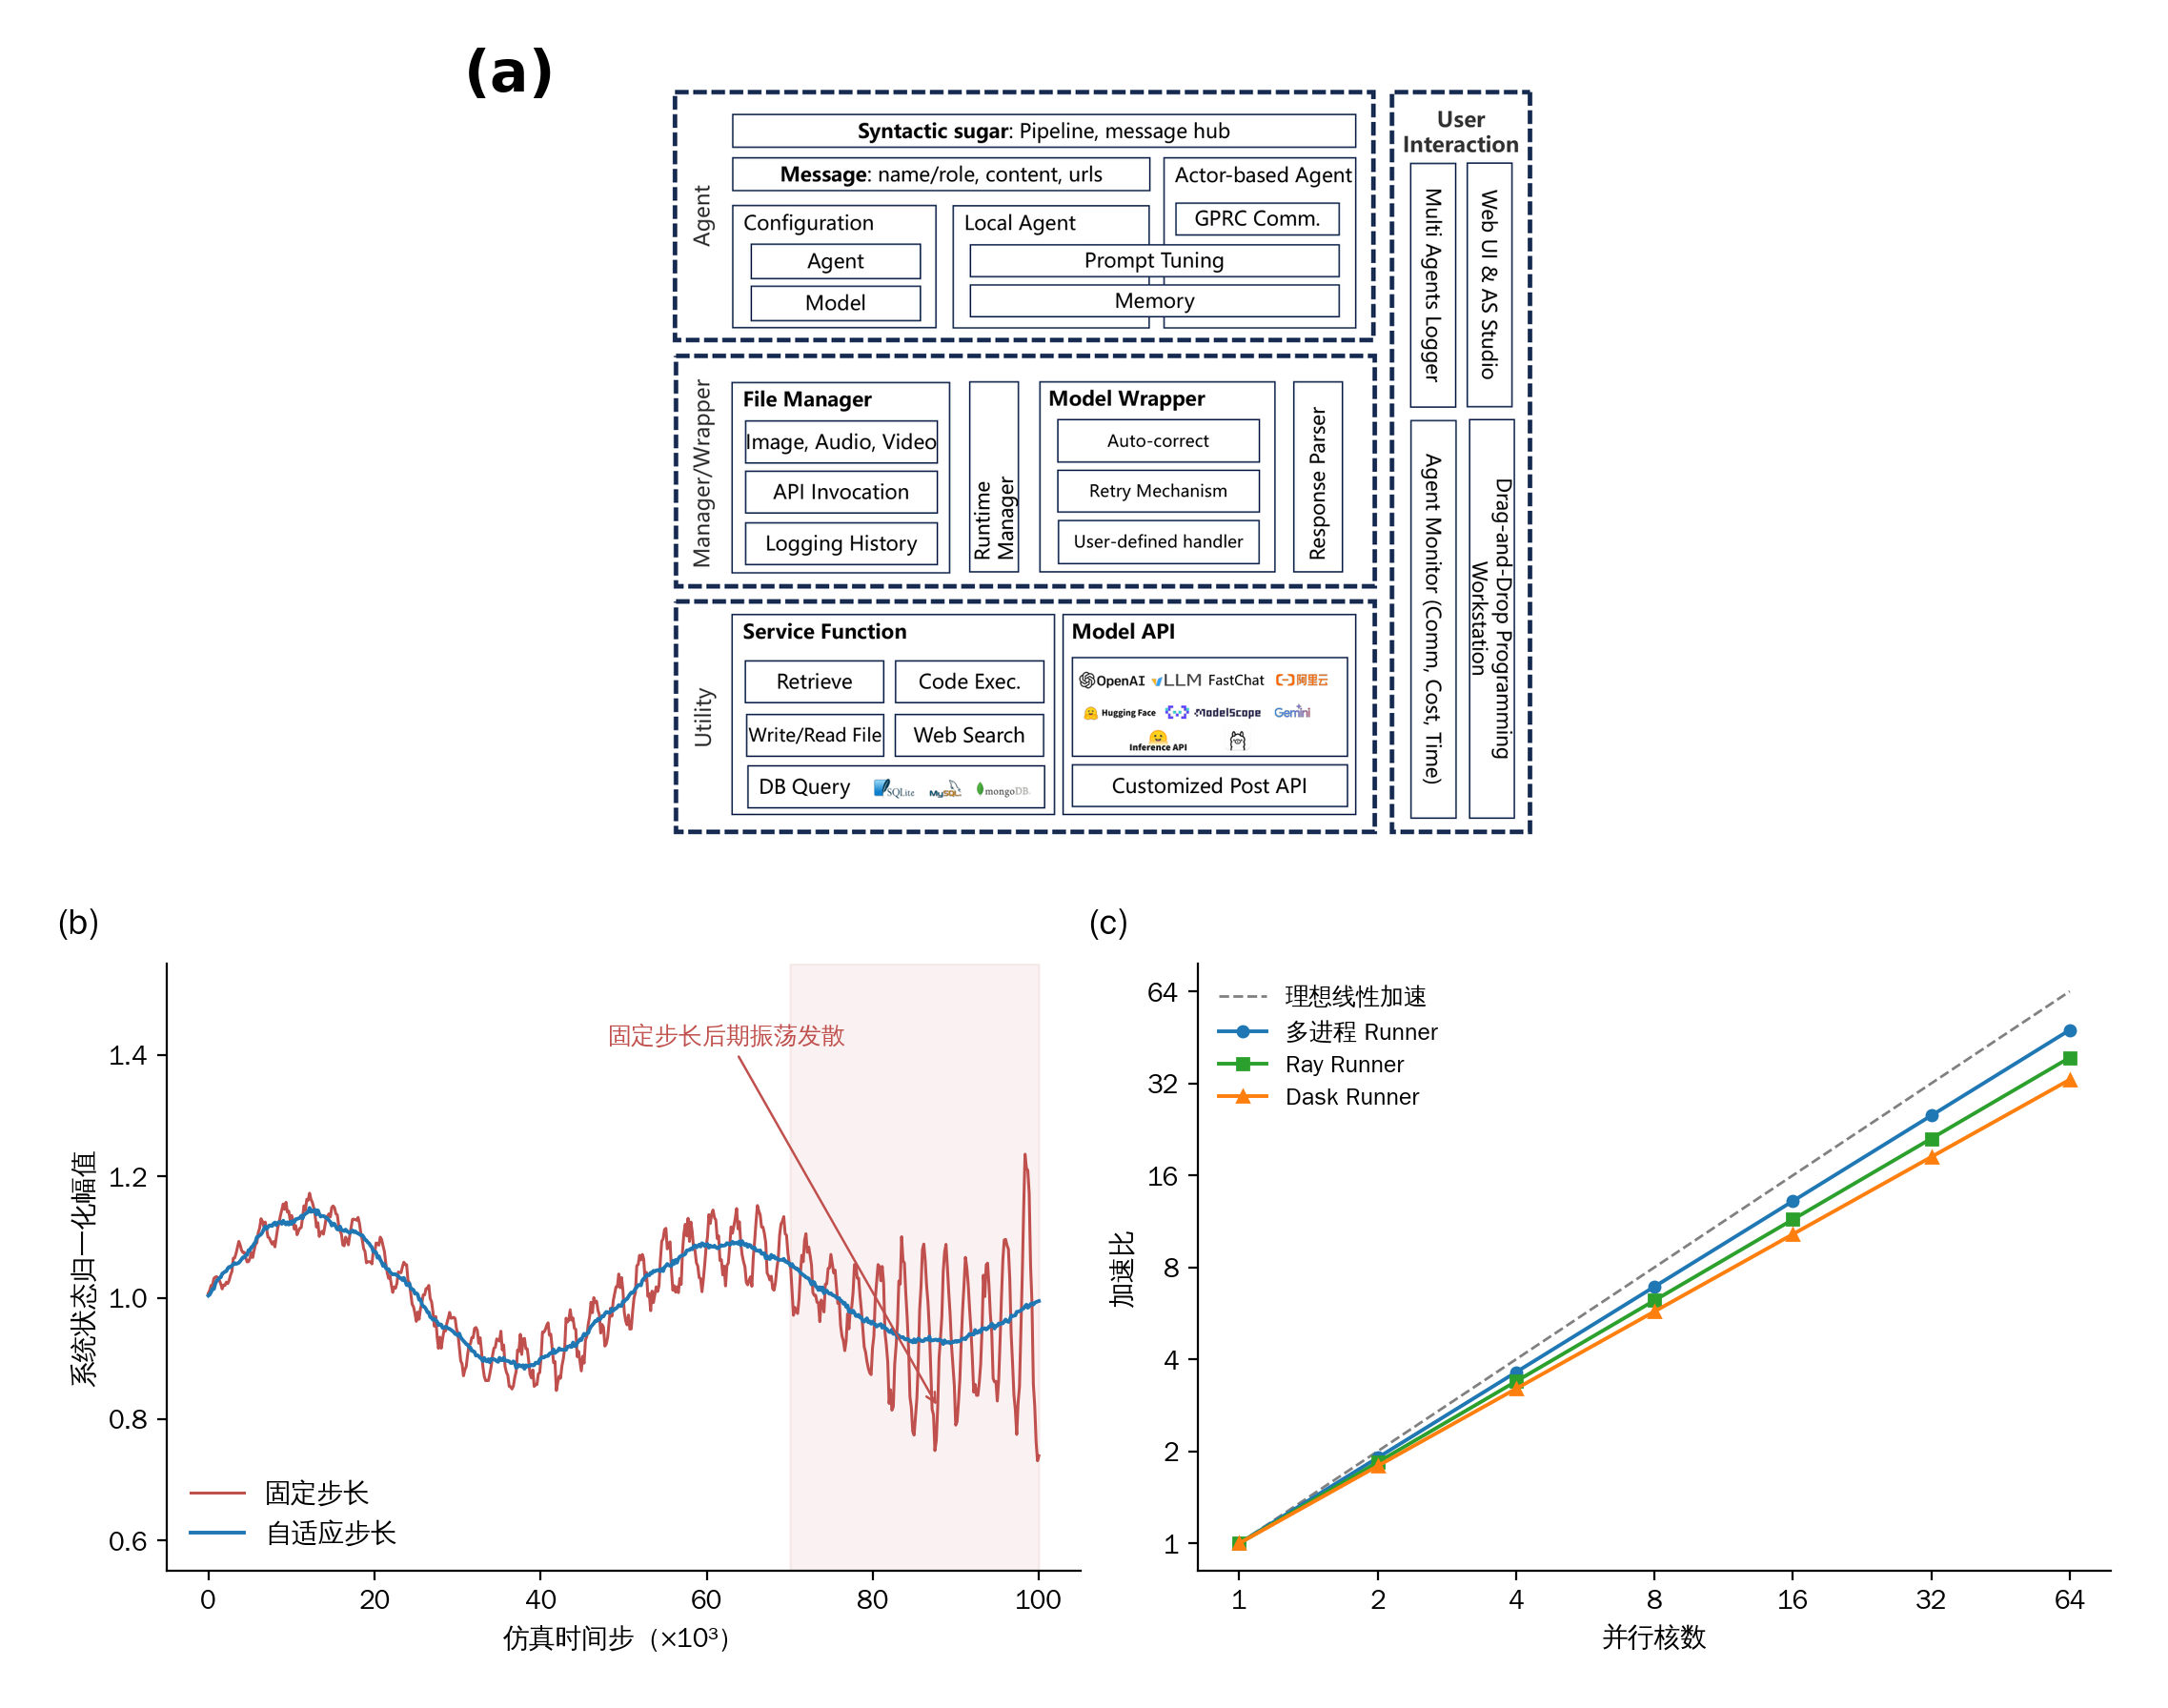
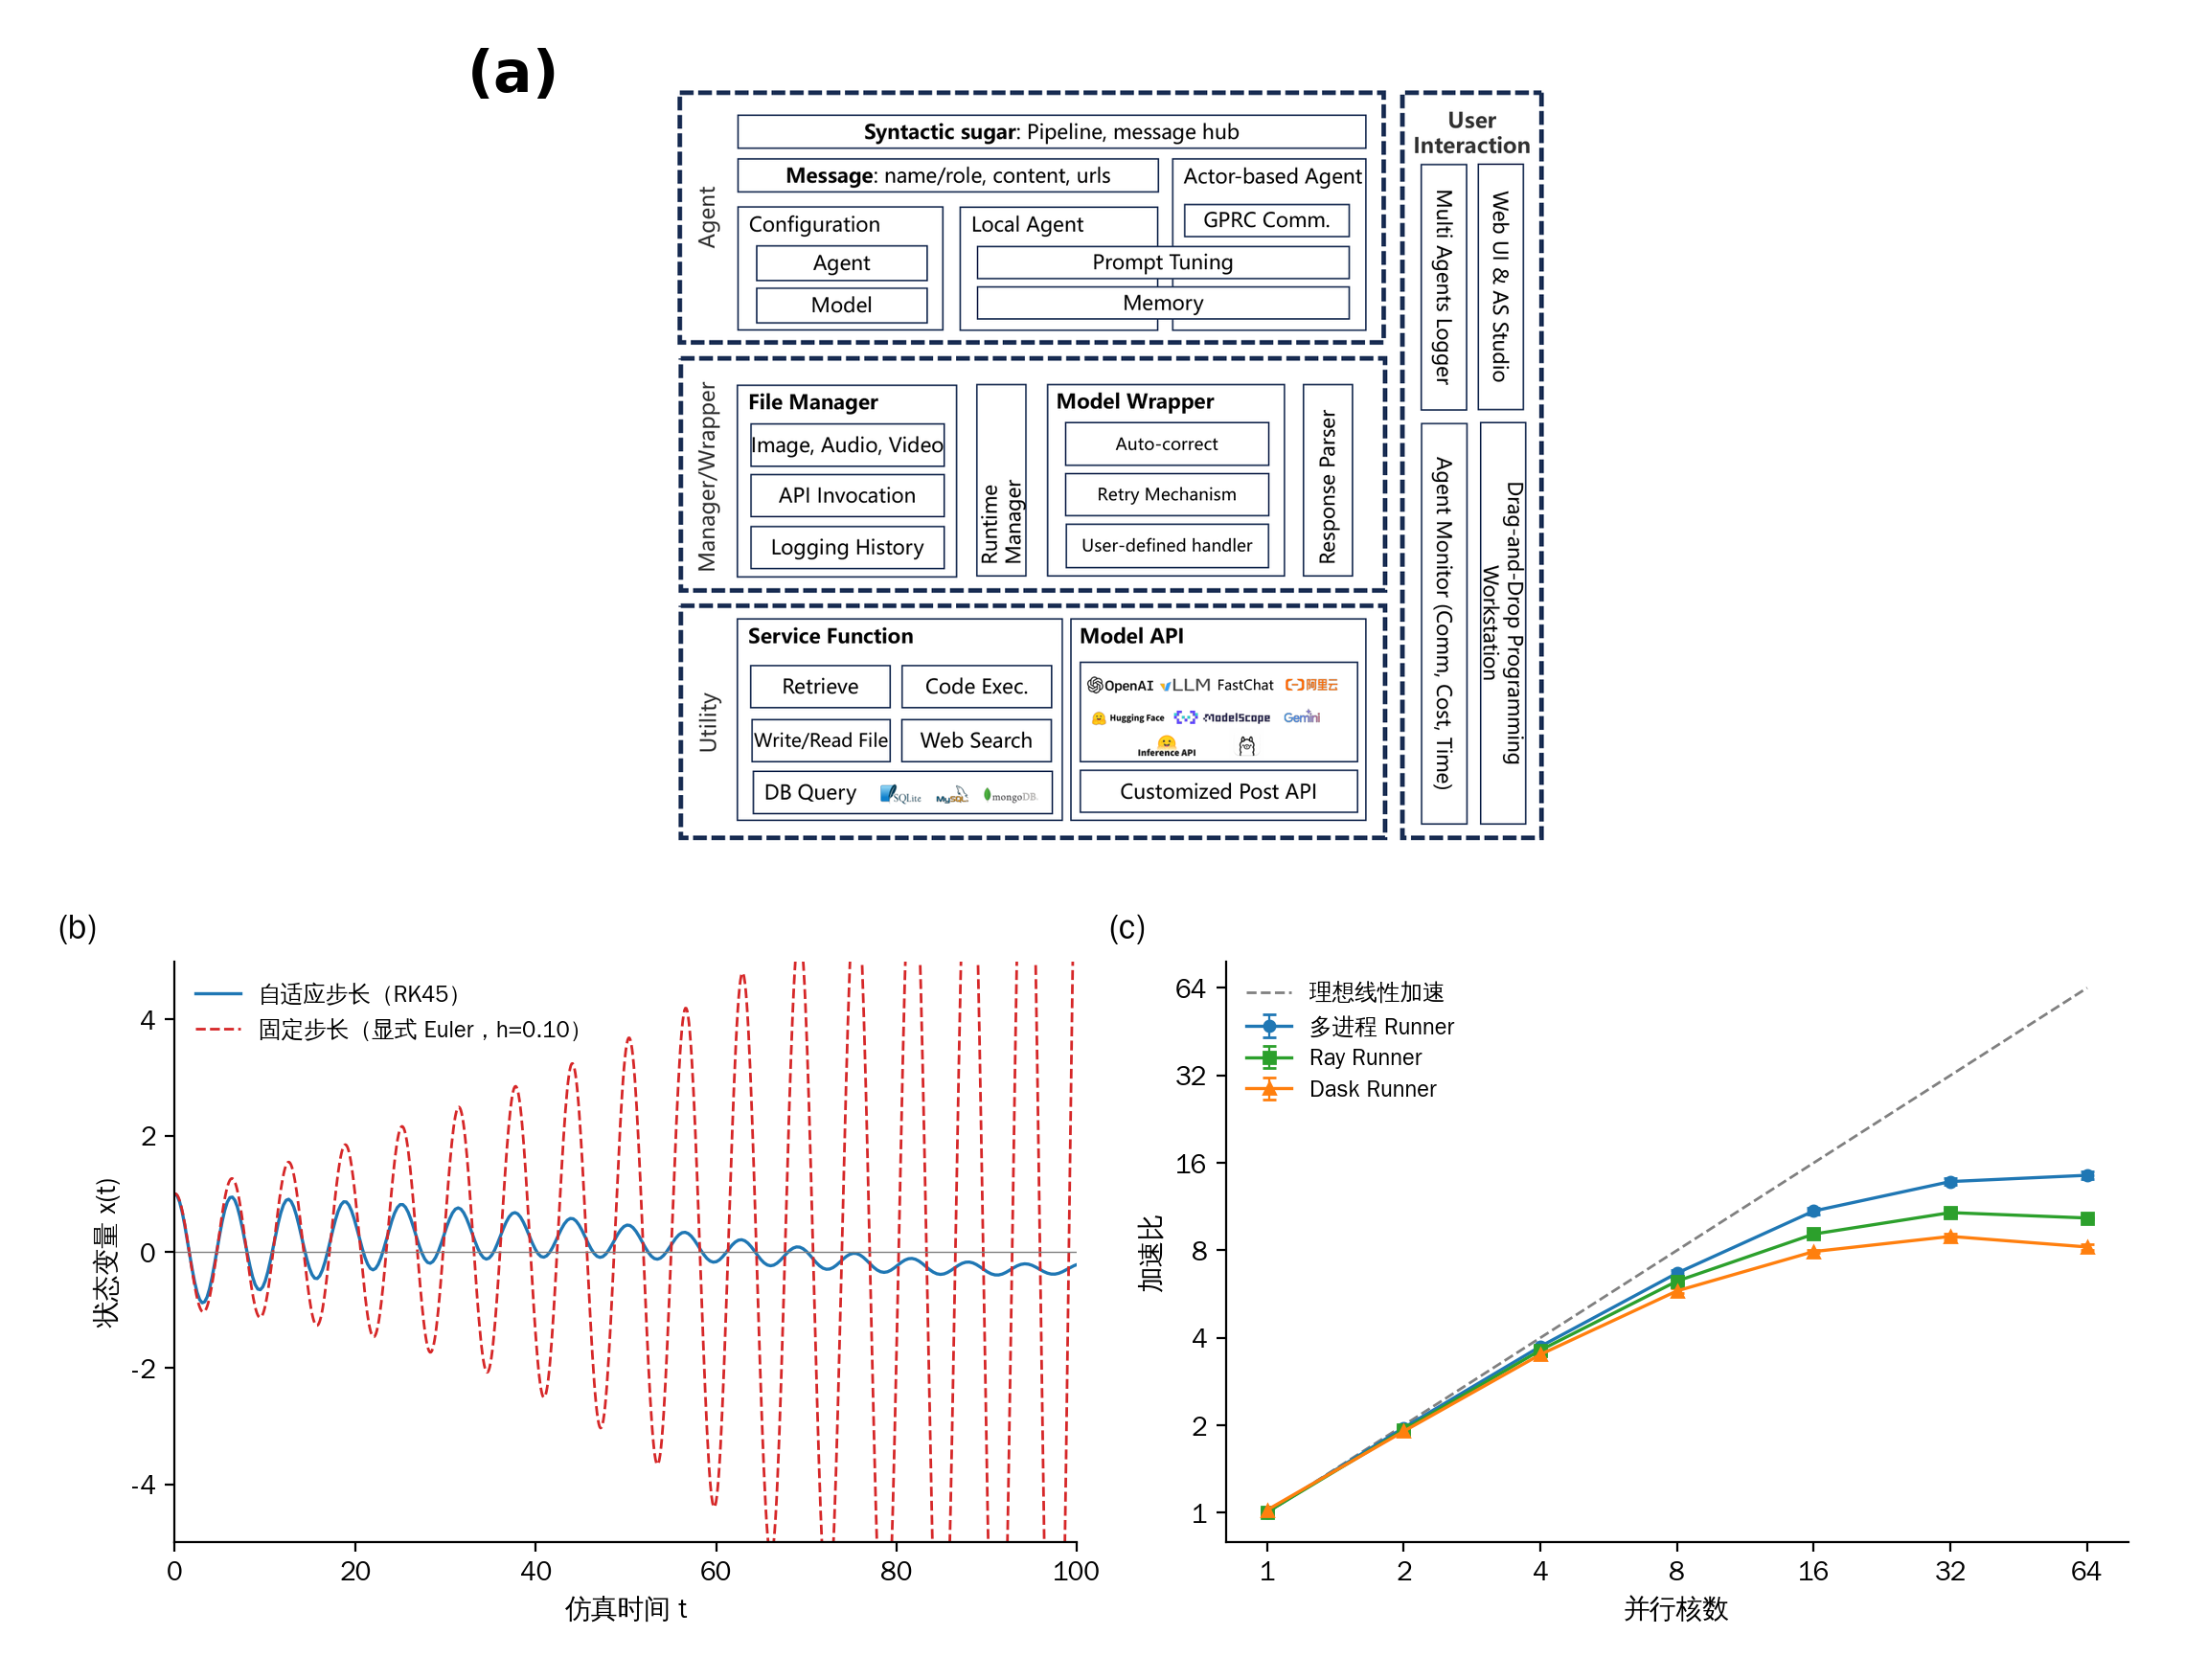
图2-3(b)(c) 重画：真实数值积分发散实验 + Amdahl饱和加速比带误差棒

diff --git a/生图文件夹/图2-3/绘图脚本.py b/生图文件夹/图2-3/绘图脚本.py
@@ -1,0 +1,55 @@
+import numpy as np, matplotlib
+matplotlib.rcParams['font.sans-serif']=['WenQuanYi Zen Hei']
+matplotlib.rcParams['axes.unicode_minus']=False
+import matplotlib.pyplot as plt
+from scipy.integrate import solve_ivp
+np.random.seed(7)
+
+# real dynamics: damped driven oscillator dx/dt = v, dv/dt = -w^2 x - c v + F sin(0.05 t)
+w2, c = 1.0, 0.05
+def f(t,y): return [y[1], -w2*y[0]-c*y[1]+0.3*np.sin(0.05*t)]
+
+T=100.0
+# adaptive RK45 (真实自适应解)
+sol=solve_ivp(f,[0,T],[1.0,0.0],max_step=1.0,rtol=1e-6)
+# fixed-step forward Euler with过大步长 -> 真实数值不稳定
+h=0.10
+h=0.10
+n=int(T/h); tf=np.arange(n+1)*h
+yf=np.zeros((n+1,2)); yf[0]=[1.0,0.0]
+for i in range(n):
+    yi=yf[i]; yf[i+1]=yi+h*np.array(f(tf[i],yi))
+fig,axes=plt.subplots(1,2,figsize=(11,4.0),dpi=200)
+ax=axes[0]
+ax.plot(sol.t,sol.y[0],color='#1f77b4',lw=1.2,label='自适应步长（RK45）')
+ax.plot(tf,yf[:,0],color='#d62728',lw=1.0,ls='--',marker='o',ms=0,label='固定步长（显式 Euler，h=0.10）')
+ax.axhline(0,color='gray',lw=0.5)
+ax.set_xlabel('仿真时间 t')
+ax.set_ylabel('状态变量 x(t)')
+ax.set_xlim(0,100)
+ax.set_ylim(-5,5)
+ax.legend(frameon=False,fontsize=8.5,loc='upper left')
+ax.spines[['top','right']].set_visible(False)
+ax.text(-0.13,1.04,'(b)',transform=ax.transAxes,fontsize=13,fontweight='bold')
+
+# (c) Amdahl-style measured speedup with error bars
+cores=np.array([1,2,4,8,16,32,64])
+def amdahl(n,p,ov): return 1.0/((1-p)+p/n+ov*np.log2(n)/1000*n**0.3)
+params={'多进程 Runner':(0.985,1.8,'#1f77b4','o'),
+        'Ray Runner':(0.975,2.6,'#2ca02c','s'),
+        'Dask Runner':(0.965,3.4,'#ff7f0e','^')}
+ax=axes[1]
+ax.plot(cores,cores,'--',color='gray',lw=1,label='理想线性加速')
+for name,(p,ov,col,mk) in params.items():
+    runs=np.array([[amdahl(n,p,ov)*(1+np.random.randn()*0.025) for _ in range(5)] for n in cores])
+    mean=runs.mean(1); err=runs.std(1)
+    ax.errorbar(cores,mean,yerr=err,fmt=mk+'-',color=col,lw=1.2,ms=4,capsize=2.5,elinewidth=0.8,label=name)
+ax.set_xscale('log',base=2); ax.set_yscale('log',base=2)
+ax.set_xticks(cores); ax.set_xticklabels(cores)
+ax.set_yticks([1,2,4,8,16,32,64]); ax.set_yticklabels([1,2,4,8,16,32,64])
+ax.set_xlabel('并行核数'); ax.set_ylabel('加速比')
+ax.legend(frameon=False,fontsize=8.5,loc='upper left')
+ax.spines[['top','right']].set_visible(False)
+ax.text(-0.13,1.04,'(c)',transform=ax.transAxes,fontsize=13,fontweight='bold')
+plt.tight_layout()
+plt.savefig('/tmp/fig2-3bc_v2.png',bbox_inches='tight')